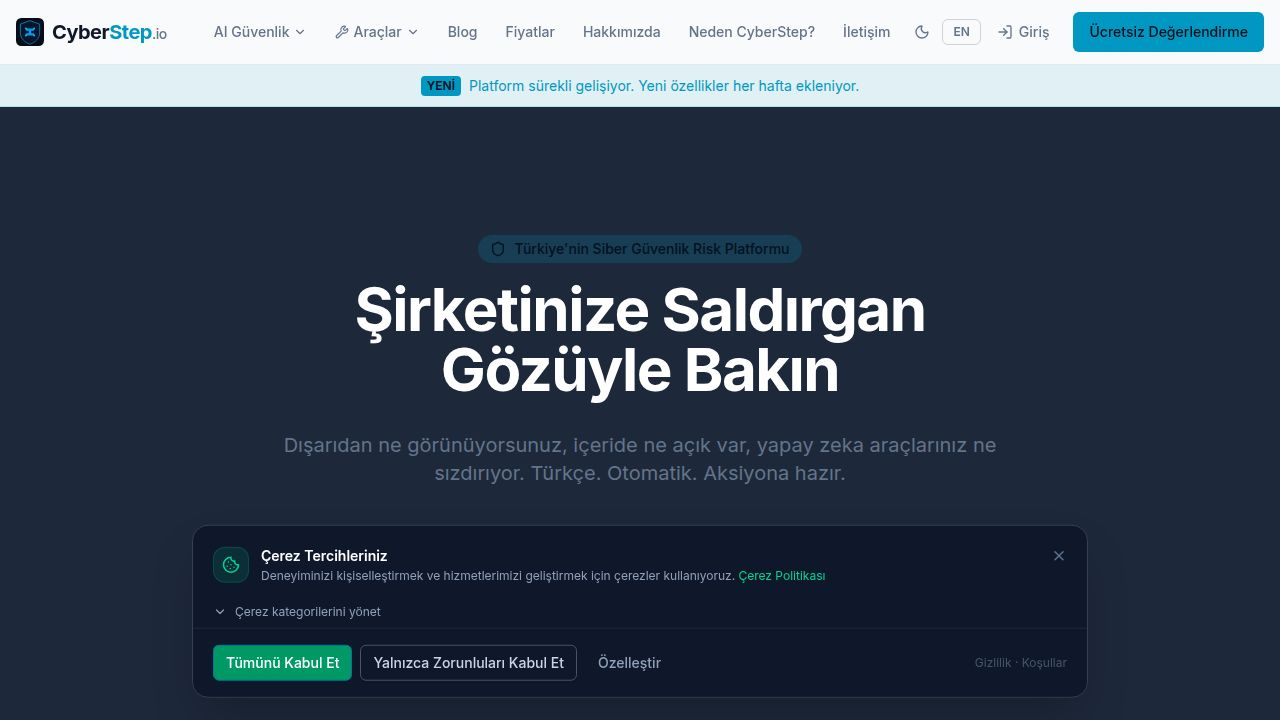
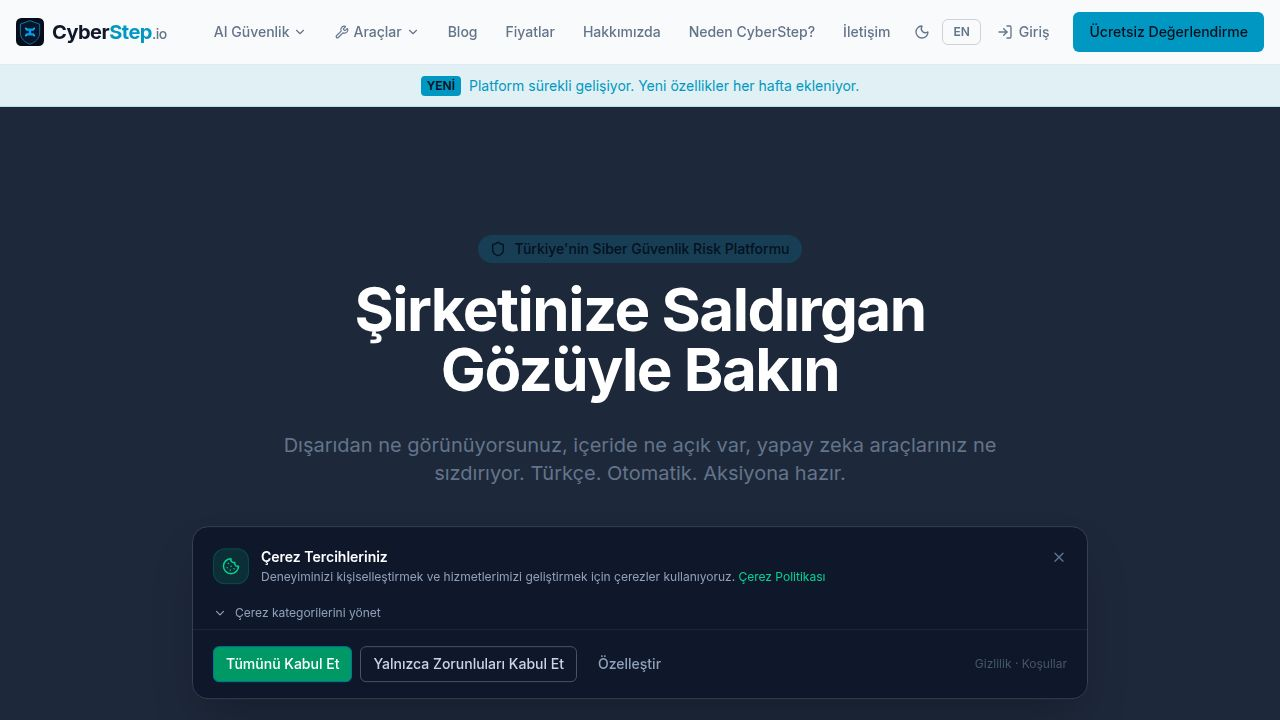
Improve Shodan integration to properly handle paid plans
Correctly identifies paid Shodan plans by excluding "dev" from the free-only list in shodanDiscovery.ts.

Replit-Commit-Author: Agent
Replit-Commit-Session-Id: 19aa2c33-85b7-4467-b216-fd19be69a496
Replit-Commit-Checkpoint-Type: full_checkpoint
Replit-Commit-Event-Id: 7af1553a-96c8-458a-8546-4efbcf82aaf2
Replit-Commit-Screenshot-Url: https://storage.googleapis.com/screenshot-production-us-central1/e4284f7e-1b35-457d-a157-477af885a581/19aa2c33-85b7-4467-b216-fd19be69a496/U4mKKO3
Replit-Helium-Checkpoint-Created: true

Changed region(s): [[0.1562, 0.7639, 0.6562, 0.8556], [0.1562, 0.8861, 0.4375, 0.9472], [0.4688, 0.9167, 0.5312, 0.9472]]

diff --git a/artifacts/api-server/src/services/shodanDiscovery.ts b/artifacts/api-server/src/services/shodanDiscovery.ts
@@ -108,11 +108,12 @@ export async function scanShodanFree(queryIndex: number = 0, maxResults: number 
     throw new Error(`Shodan plan bilgisi alınamadı: ${String(planErr)}`);
   }
 
-  const freeOnlyPlans = new Set(["oss", "dev", "free"]);
-  if (freeOnlyPlans.has(planInfo.plan.toLowerCase())) {
+  // "oss" = Shodan ücretsiz/açık kaynak planı (Search API yok)
+  // "dev" = Shodan Developer ücretli planı (Search API var) — buraya dahil ETMEYİN
+  if (planInfo.plan.toLowerCase() === "oss") {
     logger.warn(
       { plan: planInfo.plan },
-      "Shodan ücretsiz plan — Search API kullanılamıyor, tarama atlanıyor. " +
+      "Shodan OSS (ücretsiz) plan — Search API kullanılamıyor, tarama atlanıyor. " +
       "account.shodan.io → Upgrade Plan ile ücretli plana geçin.",
     );
     return { runId: 0, label: qConfig.label, totalOnShodan: 0, processed: 0, addedToLeads: 0 };